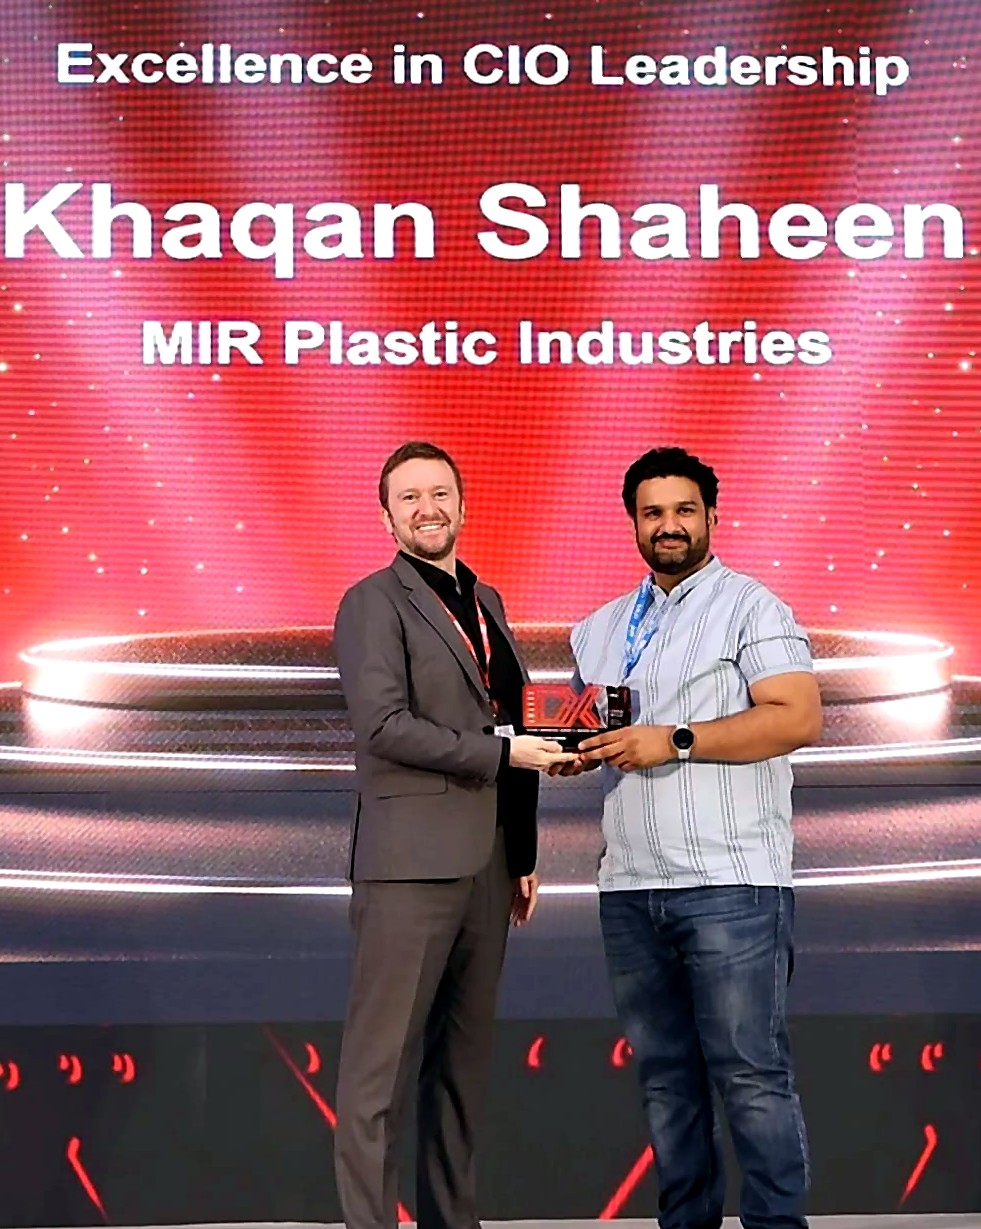
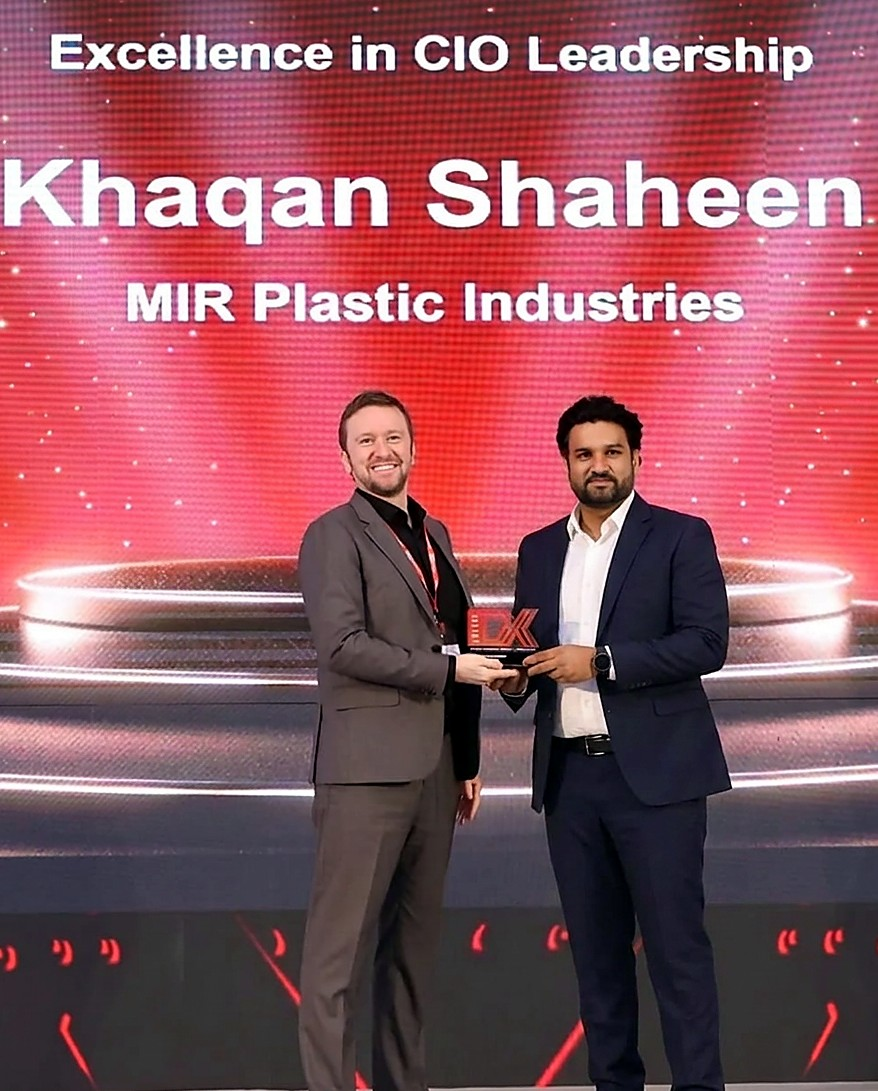
Award photos: approved retouch of the Excellence in CIO Leadership photo; presenter-only CIO of the Year; slide asset

diff --git a/index.html b/index.html
@@ -196,12 +196,12 @@
     <p class="lede">Awards from CXO DX, the UAE technology leadership publication and events organiser, for the ERP and AI transformation work described on this site. Two of them are published under my name on the organiser's own site; the links are below.</p>
     <div class="gallery">
       <figure>
-        <img src="assets/img/awards/excellence-in-cio-leadership-crop.jpg" width="981" height="1229" alt="Khaqan Shaheen on stage receiving the Excellence in CIO Leadership award, with the screen reading Khaqan Shaheen, MIR Plastic Industries" loading="lazy">
+        <img src="assets/img/awards/excellence-in-cio-leadership-crop.jpg" width="878" height="1091" alt="Khaqan Shaheen on stage receiving the Excellence in CIO Leadership award, with the screen reading Khaqan Shaheen, MIR Plastic Industries" loading="lazy">
         <figcaption>Excellence in CIO Leadership, CXO DX awards, Dubai. Receiving the award on stage.</figcaption>
       </figure>
       <figure>
-        <img src="assets/img/awards/cio-of-the-year.jpg" width="921" height="787" alt="The CIO of the Year award for Khaqan Shaheen being presented at the CXO DX Future Workspace Summit and Awards in Downtown Dubai" loading="lazy">
-        <figcaption>CIO of the Year, CXO DX Future Workspace Summit &amp; Awards, Downtown Dubai. I could not attend that evening, so a colleague accepted it on my behalf.</figcaption>
+        <img src="assets/img/awards/cio-of-the-year.jpg" width="1200" height="896" alt="The CIO of the Year award for Khaqan Shaheen presented on stage at the CXO DX Future Workspace Summit and Awards in Downtown Dubai" loading="lazy">
+        <figcaption>CIO of the Year, CXO DX Future Workspace Summit &amp; Awards, Downtown Dubai. Presented at the ceremony and accepted on my behalf; I was on a factory floor that evening.</figcaption>
       </figure>
     </div>
     <ul class="plain awards-list">

diff --git a/press.html b/press.html
@@ -124,12 +124,12 @@
     <h2>Award photos</h2>
     <div class="gallery">
       <figure>
-        <img src="assets/img/awards/excellence-in-cio-leadership-crop.jpg" width="981" height="1229" alt="Khaqan Shaheen receiving the Excellence in CIO Leadership award on stage" loading="lazy">
+        <img src="assets/img/awards/excellence-in-cio-leadership-crop.jpg" width="878" height="1091" alt="Khaqan Shaheen receiving the Excellence in CIO Leadership award on stage" loading="lazy">
         <figcaption>Excellence in CIO Leadership, CXO DX awards, Dubai. <a href="assets/img/awards/excellence-in-cio-leadership.jpg" download>Download</a></figcaption>
       </figure>
       <figure>
-        <img src="assets/img/awards/cio-of-the-year.jpg" width="921" height="787" alt="CIO of the Year award for Khaqan Shaheen presented at the CXO DX Future Workspace Summit and Awards" loading="lazy">
-        <figcaption>CIO of the Year, CXO DX Future Workspace Summit &amp; Awards, Downtown Dubai; accepted on his behalf by a colleague. <a href="assets/img/awards/cio-of-the-year.jpg" download>Download</a></figcaption>
+        <img src="assets/img/awards/cio-of-the-year.jpg" width="1200" height="896" alt="CIO of the Year award for Khaqan Shaheen presented at the CXO DX Future Workspace Summit and Awards" loading="lazy">
+        <figcaption>CIO of the Year, CXO DX Future Workspace Summit &amp; Awards, Downtown Dubai; presented at the ceremony and accepted on his behalf. <a href="assets/img/awards/cio-of-the-year.jpg" download>Download</a> or the <a href="assets/img/awards/cio-of-the-year-slide.jpg" download>award slide only</a>.</figcaption>
       </figure>
     </div>
   </section>
